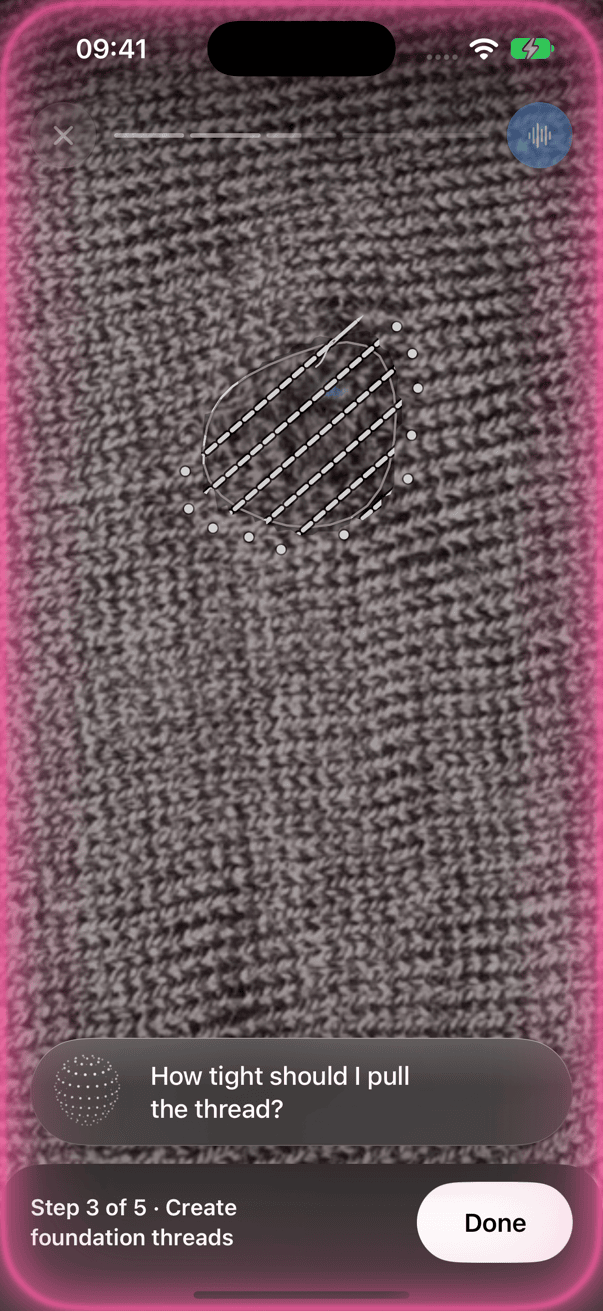
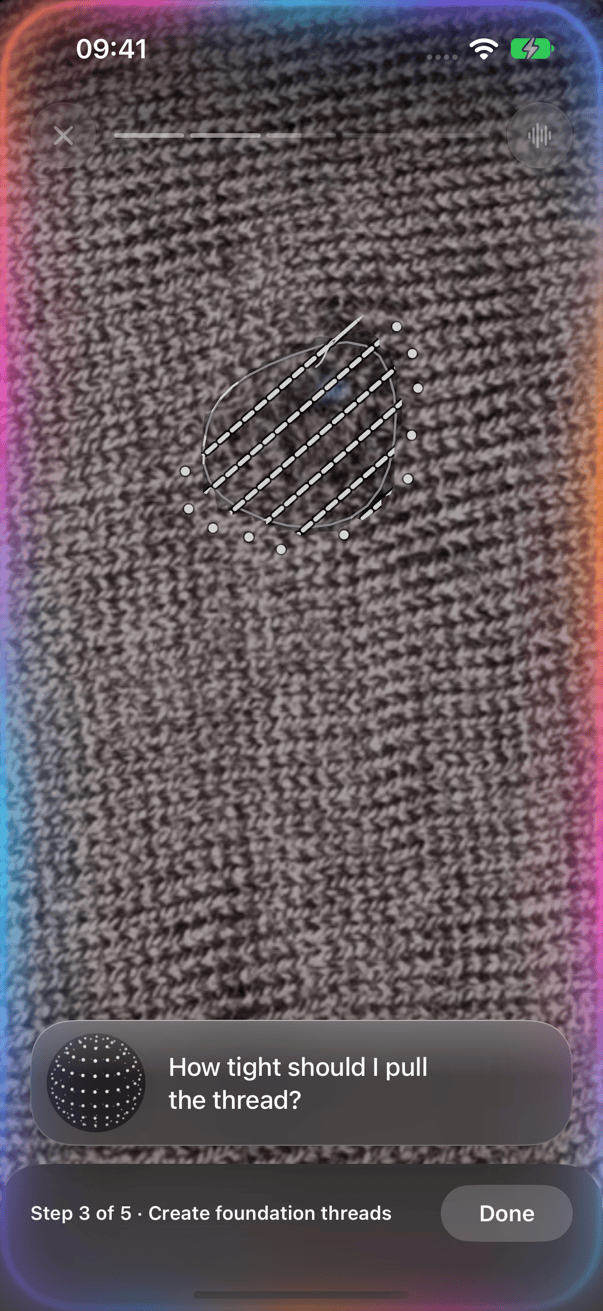
ios: hands-free glass, multicolour glow, larger orb, neutral collapsed bar (review round 2)

Changed region(s): [[0.0, 0.2441, 1.0, 1.0], [0.2687, 0.0, 1.0, 0.5797], [0.0, 0.0, 0.1493, 0.1831]]

diff --git a/ios/RepairAssistant/DesignSystem/HandsFreeOverlay.swift b/ios/RepairAssistant/DesignSystem/HandsFreeOverlay.swift
@@ -8,11 +8,15 @@ struct HandsFreeGlow: View {
     @Environment(\.accessibilityReduceMotion) private var reduceMotion
 
     private static let colors: [Color] = [
-        Color(red: 1.00, green: 0.37, blue: 0.64),   // #FF5FA2
-        Color(red: 1.00, green: 0.62, blue: 0.26),   // #FF9F43
-        Color(red: 0.35, green: 0.78, blue: 0.98),   // #5AC8FA
-        Color(red: 0.48, green: 0.42, blue: 1.00),   // #7B6CFF
-        Color(red: 0.20, green: 0.78, blue: 0.35),   // #34C759
+        Color(red: 0.55, green: 0.38, blue: 1.00),   // violet
+        Color(red: 0.20, green: 0.80, blue: 1.00),   // cyan
+        Color(red: 0.98, green: 0.30, blue: 0.80),   // magenta
+        Color(red: 1.00, green: 0.55, blue: 0.20),   // orange
+        Color(red: 0.30, green: 0.55, blue: 1.00),   // blue
+        Color(red: 0.55, green: 0.38, blue: 1.00),   // violet
+        Color(red: 0.20, green: 0.80, blue: 1.00),   // cyan
+        Color(red: 0.98, green: 0.30, blue: 0.80),   // magenta
+        Color(red: 1.00, green: 0.55, blue: 0.20),   // orange
     ]
 
     var body: some View {
@@ -57,7 +61,9 @@ struct HandsFreeGlow: View {
             func conic(_ shift: Double) -> GraphicsContext.Shading {
                 var cs = Self.colors
                 cs.append(cs[0])
-                return .conicGradient(Gradient(colors: cs), center: center, angle: .radians(shift))
+                let r = max(size.width, size.height) * 0.5
+                let d = CGPoint(x: cos(shift) * r, y: sin(shift) * r)
+                return .linearGradient(Gradient(colors: cs), startPoint: CGPoint(x: center.x - d.x, y: center.y - d.y), endPoint: CGPoint(x: center.x + d.x, y: center.y + d.y))
             }
             let a = t * 2 * .pi / 6
             ctx.drawLayer { l in
@@ -77,6 +83,15 @@ struct HandsFreeGlow: View {
                 l.stroke(path(inset: 1.5), with: conic(a), lineWidth: 3)
             }
         }
+        .mask {
+            // No bleed into the bottom bar: fade to 0.4 over the bottom 190 pt.
+            GeometryReader { g in
+                VStack(spacing: 0) {
+                    Color.white.frame(height: max(0, g.size.height - 190))
+                    LinearGradient(colors: [.white, .white.opacity(0.4)], startPoint: .top, endPoint: .bottom).frame(height: min(190, g.size.height))
+                }
+            }
+        }
         .ignoresSafeArea()
         .allowsHitTesting(false)
         .accessibilityHidden(true)
@@ -93,10 +108,10 @@ private struct HandsFreeGlass<S: InsettableShape>: ViewModifier {
     var shape: S
     func body(content: Content) -> some View {
         content
+            .background(Color.black.opacity(0.10), in: shape)
             .background(.ultraThinMaterial, in: shape)
-            .background(Color.black.opacity(0.22), in: shape)
-            .overlay(shape.fill(LinearGradient(colors: [.white.opacity(0.14), .clear], startPoint: .top, endPoint: UnitPoint(x: 0.5, y: 0.45))).allowsHitTesting(false))
-            .overlay(shape.strokeBorder(LinearGradient(colors: [.white.opacity(0.55), .white.opacity(0.08), .white.opacity(0.22)], startPoint: .top, endPoint: .bottom), lineWidth: 0.5))
+            .overlay(shape.fill(LinearGradient(colors: [.white.opacity(0.22), .clear], startPoint: .top, endPoint: UnitPoint(x: 0.5, y: 0.45))).allowsHitTesting(false))
+            .overlay(shape.strokeBorder(LinearGradient(colors: [.white.opacity(0.45), .white.opacity(0.08), .white.opacity(0.22)], startPoint: .top, endPoint: .bottom), lineWidth: 0.75))
             .shadow(color: .black.opacity(0.3), radius: 22, y: 8)
     }
 }
@@ -137,12 +152,14 @@ struct HandsFreeCapsule: View {
     private var orbState: OrbState { model.phase == .thinking ? .working : .listening }
 
     private var capsule: some View {
-        HStack(spacing: 12) {
-            ThinkingOrb(state: orbState, size: 56, tempo: model.phase == .hearing ? 1.0 : 0.7, level: model.phase == .hearing ? model.level : 0)
-                .frame(width: 60, height: 60)
+        let twoLines = statusText.count > 26
+        let content = HStack(spacing: 10) {
+            ThinkingOrb(state: orbState, size: 72, tempo: model.phase == .hearing ? 1.0 : 0.7, level: model.phase == .hearing ? model.level : 0)
+                .frame(width: 76, height: 76)
+                .background(Circle().fill(Color.black.opacity(0.45)).frame(width: 66, height: 66))
             VStack(alignment: .leading, spacing: 2) {
                 if model.phase == .thinking, !model.caption.isEmpty, model.notice == nil {
-                    Text(model.caption).font(.system(size: 13)).foregroundStyle(.white.opacity(0.55)).lineLimit(1)
+                    Text(model.caption).font(.system(size: 14)).foregroundStyle(.white.opacity(0.7)).lineLimit(1)
                 }
                 Text(statusText)
                     .font(.body.weight(.medium))
@@ -151,40 +168,47 @@ struct HandsFreeCapsule: View {
                     .multilineTextAlignment(.leading)
                     .contentTransition(.opacity)
             }
-            Spacer(minLength: 0)
+            .frame(maxWidth: 260, alignment: .leading)
         }
-        .padding(.leading, 8).padding(.trailing, 20).padding(.vertical, 6)
-        .frame(maxWidth: .infinity, alignment: .leading)
-        .modifier(HandsFreeGlass(shape: Capsule()))
+        .padding(.leading, 6).padding(.trailing, 22).padding(.vertical, 4)
         .accessibilityElement(children: .combine)
         .accessibilityLabel(statusText)
+        return HStack(spacing: 0) {
+            Group {
+                if twoLines { content.modifier(HandsFreeGlass(shape: RoundedRectangle(cornerRadius: 28, style: .continuous))) }
+                else { content.modifier(HandsFreeGlass(shape: Capsule())) }
+            }
+            Spacer(minLength: 0)
+        }
     }
 
     private func answerCard(_ text: String) -> some View {
         Button { model.dismissAnswer() } label: {
             VStack(alignment: .leading, spacing: 8) {
                 HStack(spacing: 8) {
-                    ThinkingOrb(state: .listening, size: 28, tempo: 0.7).frame(width: 34, height: 34)
+                    ThinkingOrb(state: .listening, size: 36, tempo: 0.7).frame(width: 40, height: 40)
+                        .background(Circle().fill(Color.black.opacity(0.45)).frame(width: 34, height: 34))
                     if !model.caption.isEmpty {
-                        Text(model.caption).font(.system(size: 13)).foregroundStyle(.white.opacity(0.55)).lineLimit(1)
+                        Text(model.caption).font(.system(size: 14)).foregroundStyle(.white.opacity(0.7)).lineLimit(1)
                     }
                     Spacer(minLength: 0)
                 }
                 Text(text)
-                    .font(.title3.weight(.medium))
-                    .lineSpacing(4)
+                    .font(.system(size: 22, weight: .regular))
+                    .lineSpacing(3)
                     .foregroundStyle(.white)
-                    .lineLimit(6)
+                    .lineLimit(nil)
                     .minimumScaleFactor(0.8)
                     .multilineTextAlignment(.leading)
                     .fixedSize(horizontal: false, vertical: true)
                     .frame(maxWidth: .infinity, alignment: .leading)
+                    .padding(.trailing, 36)
             }
             .padding(.horizontal, 20).padding(.vertical, 18)
             .frame(maxWidth: .infinity, maxHeight: maxHeight, alignment: .topLeading)
             .fixedSize(horizontal: false, vertical: true)
-            .modifier(HandsFreeGlass(shape: RoundedRectangle(cornerRadius: 30, style: .continuous)))
-            .contentShape(RoundedRectangle(cornerRadius: 30, style: .continuous))
+            .modifier(HandsFreeGlass(shape: RoundedRectangle(cornerRadius: 28, style: .continuous)))
+            .contentShape(RoundedRectangle(cornerRadius: 28, style: .continuous))
         }
         .buttonStyle(.plain)
         .accessibilityLabel(text)

diff --git a/ios/RepairAssistant/Views/GuideView.swift b/ios/RepairAssistant/Views/GuideView.swift
@@ -127,7 +127,8 @@ struct GuideView: View {
                 .font(.system(size: 16, weight: .semibold))
                 .foregroundStyle(.white)
                 .frame(width: 44, height: 44)
-                .glass(Circle(), tint: handsFree.isActive ? Theme.thread.opacity(0.75) : nil, interactive: true)
+                .glass(Circle(), tint: nil, interactive: true)
+                .overlay { if handsFree.isActive { Circle().fill(Color.white.opacity(0.16)) } }
                 .contentShape(Circle())
         }
         .buttonStyle(.plain)
@@ -158,10 +159,10 @@ struct GuideView: View {
 
     // MARK: Photo
 
-    private static let barContentHeight: CGFloat = 50
+    private static let barContentHeight: CGFloat = 46
     private static let baseAnchor: CGFloat = 0.33
 
-    private func barHeight(_ geo: FullGeo) -> CGFloat { Self.barContentHeight + 14 + max(geo.safeAreaInsets.bottom, 12) }
+    private func barHeight(_ geo: FullGeo) -> CGFloat { Self.barContentHeight + 10 + 8 + geo.safeAreaInsets.bottom }
 
     /// The work area on screen at the normal anchor: damage bounds scaled by the zoom, padded for stitch overlay and labels.
     private func workRect(_ r: AnalyzeResponse, size: CGSize) -> CGRect {
@@ -178,7 +179,7 @@ struct GuideView: View {
 
     private func voicePlacement(_ r: AnalyzeResponse, geo: FullGeo) -> VoiceLayout.Placement {
         let H = geo.size.height
-        let vh: CGFloat = handsFree.answer != nil ? min(H * 0.34, 270) : 80
+        let vh: CGFloat = handsFree.answer != nil ? min(H * 0.34, 270) : 92
         return VoiceLayout.place(container: geo.size, work: workRect(r, size: geo.size), topReserved: geo.safeAreaInsets.top + 70,
                                  barTop: H - barHeight(geo), voiceHeight: vh)
     }
@@ -194,17 +195,21 @@ struct GuideView: View {
         let last = index == steps.count - 1
         return HStack(spacing: 12) {
             Text("Step \(index + 1) of \(steps.count) · \(step.title)")
-                .font(.subheadline.weight(.semibold)).foregroundStyle(Theme.ink)
-                .lineLimit(2).multilineTextAlignment(.leading)
+                .font(.subheadline.weight(.semibold)).foregroundStyle(.white)
+                .lineLimit(1).minimumScaleFactor(0.8).multilineTextAlignment(.leading)
             Spacer(minLength: 8)
-            Button { advance(last: last) } label: { Text(last ? "Finish" : "Done").lineLimit(1) }
-                .buttonStyle(PrimaryButtonStyle(kind: .primary))
-                .frame(width: 104)
+            Button { advance(last: last) } label: {
+                Text(last ? "Finish" : "Done").font(.subheadline.weight(.semibold)).foregroundStyle(.white).lineLimit(1)
+                    .frame(width: 88, height: 38).background(Capsule().fill(Color.white.opacity(0.18)))
+            }
+            .buttonStyle(.plain)
         }
         .frame(height: Self.barContentHeight)
-        .padding(.horizontal, Theme.margin).padding(.top, 14).padding(.bottom, max(bottomInset, 12))
+        .padding(.horizontal, Theme.margin).padding(.top, 10).padding(.bottom, bottomInset + 8)
         .frame(maxWidth: .infinity)
-        .background(.regularMaterial, in: UnevenRoundedRectangle(topLeadingRadius: 28, topTrailingRadius: 28, style: .continuous))
+        .background(.ultraThinMaterial, in: UnevenRoundedRectangle(topLeadingRadius: 28, topTrailingRadius: 28, style: .continuous))
+        .background(Color.black.opacity(0.35), in: UnevenRoundedRectangle(topLeadingRadius: 28, topTrailingRadius: 28, style: .continuous))
+        .environment(\.colorScheme, .dark)
     }
 
     private func photo(_ step: GuideStep, _ r: AnalyzeResponse, geo: FullGeo) -> some View {
